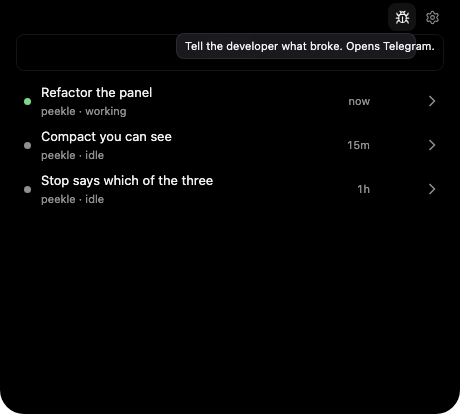
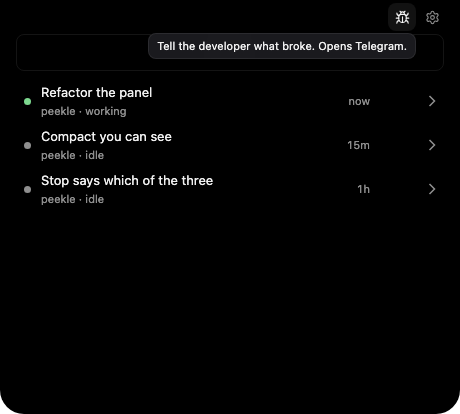
fix: size the button's hint by its own line
A layer positioned against its button is measured against that button --
28 pixels -- so the hint either collapsed into a column one letter wide
or, with nowrap, ran off the ground it was drawn on. Its width comes from
the line now, and the ceiling wraps it rather than letting it out.
tech.md 9.

The e2e measures what the eye saw: the hint's scroll width never exceeds
the width it is drawn at. It fails on the rule it replaces.

Changed region(s): [[0.3043, 0.058, 0.9435, 0.1449]]

diff --git a/src/lib/ui/IconButton.svelte b/src/lib/ui/IconButton.svelte
@@ -105,7 +105,14 @@
     top: calc(100% + 2px);
     right: 0;
     z-index: 3;
-    max-width: 240px;
+    /* Sized by its own words, not by the button it hangs from. The box an
+       absolutely positioned child is measured against is the button -- 28
+       pixels -- so shrink-to-fit wraps it into a column one letter wide, and
+       `nowrap` instead made the words run off the ground they were drawn on.
+       `max-content` asks for the width of the line; the ceiling then wraps it
+       rather than spilling it. */
+    width: max-content;
+    max-width: 300px;
     padding: 5px 8px;
     border: 1px solid var(--hairline);
     border-radius: 8px;
@@ -117,7 +124,8 @@
     color: var(--text);
     font-size: 11px;
     line-height: 1.3;
-    white-space: nowrap;
+    white-space: normal;
+    overflow-wrap: anywhere;
     pointer-events: none;
   }
 </style>

diff --git a/tests/e2e/island.spec.ts b/tests/e2e/island.spec.ts
@@ -542,6 +542,14 @@ test.describe('the island route', () => {
     const shape = (await page.locator('.shape').boundingBox())!;
     expect(line.x).toBeGreaterThanOrEqual(shape.x);
     expect(line.x + line.width).toBeLessThanOrEqual(shape.x + shape.width);
+    // And the ground is under all of it. It was not: with `nowrap` under a
+    // ceiling the words ran past the box they were drawn on, and the tail of
+    // the line stood on the conversation.
+    const fits = await hint.evaluate((node) => ({
+      wide: node.scrollWidth <= node.clientWidth + 1,
+      tall: node.scrollHeight <= node.clientHeight + 1,
+    }));
+    expect(fits).toEqual({ wide: true, tall: true });
 
     await gear.hover();
     await expect(hint).toHaveCount(0);

diff --git a/features/README.md b/features/README.md
@@ -13,6 +13,7 @@ Screenshots and clips live in [`shots/`](shots).
 
 | Version | Feature                                                                                                                  | Contract             |
 | ------- | ------------------------------------------------------------------------------------------------------------------------ | -------------------- |
+| v80.13  | [The hint fits its own ground](#v8013--the-hint-fits-its-own-ground)                                                     | 9                    |
 | v80.12  | [A chat in a folder Claude Code has not been trusted in](#v8012--a-chat-in-a-folder-claude-code-has-not-been-trusted-in) | 6.24, 6.3, 6.5       |
 | v80.11  | [Pressing a screenshot opens it](#v8011--pressing-a-screenshot-opens-it)                                                 | 6.13, 9              |
 | v80.10  | [A screenshot in a message is a reference](#v8010--a-screenshot-in-a-message-is-a-reference)                             | 6.13, 9              |
@@ -46,6 +47,21 @@ Screenshots and clips live in [`shots/`](shots).
 | v58     | [Usage badge](#v58--usage-badge)                                                                                         | 6.8, 6.10, 6.18, 9   |
 | v57     | [Work line](#v57--work-line)                                                                                             | 6.12, 9              |
 | v56     | [Stop in the field button](#v56--stop-in-the-field-button)                                                               | 6.5, 6.15, 9         |
+
+## v80.13 — The hint fits its own ground
+
+2026-09-11
+
+The line under the bug button ran off the dark box it was drawn on. A layer
+positioned against its button is measured against that button — 28 pixels — so
+shrink-to-fit collapsed it into a column one letter wide, and the `nowrap` that
+prevented that let the words spill past their own ground instead.
+
+Its width now comes from the line itself, and the ceiling wraps it rather than
+letting it out. The test measures what the eye saw: the scroll width of the
+hint never exceeds the width it is drawn at.
+
+![The bug button and its line](shots/bug-button.png)
 
 ## v80.12 — A chat in a folder Claude Code has not been trusted in
 
